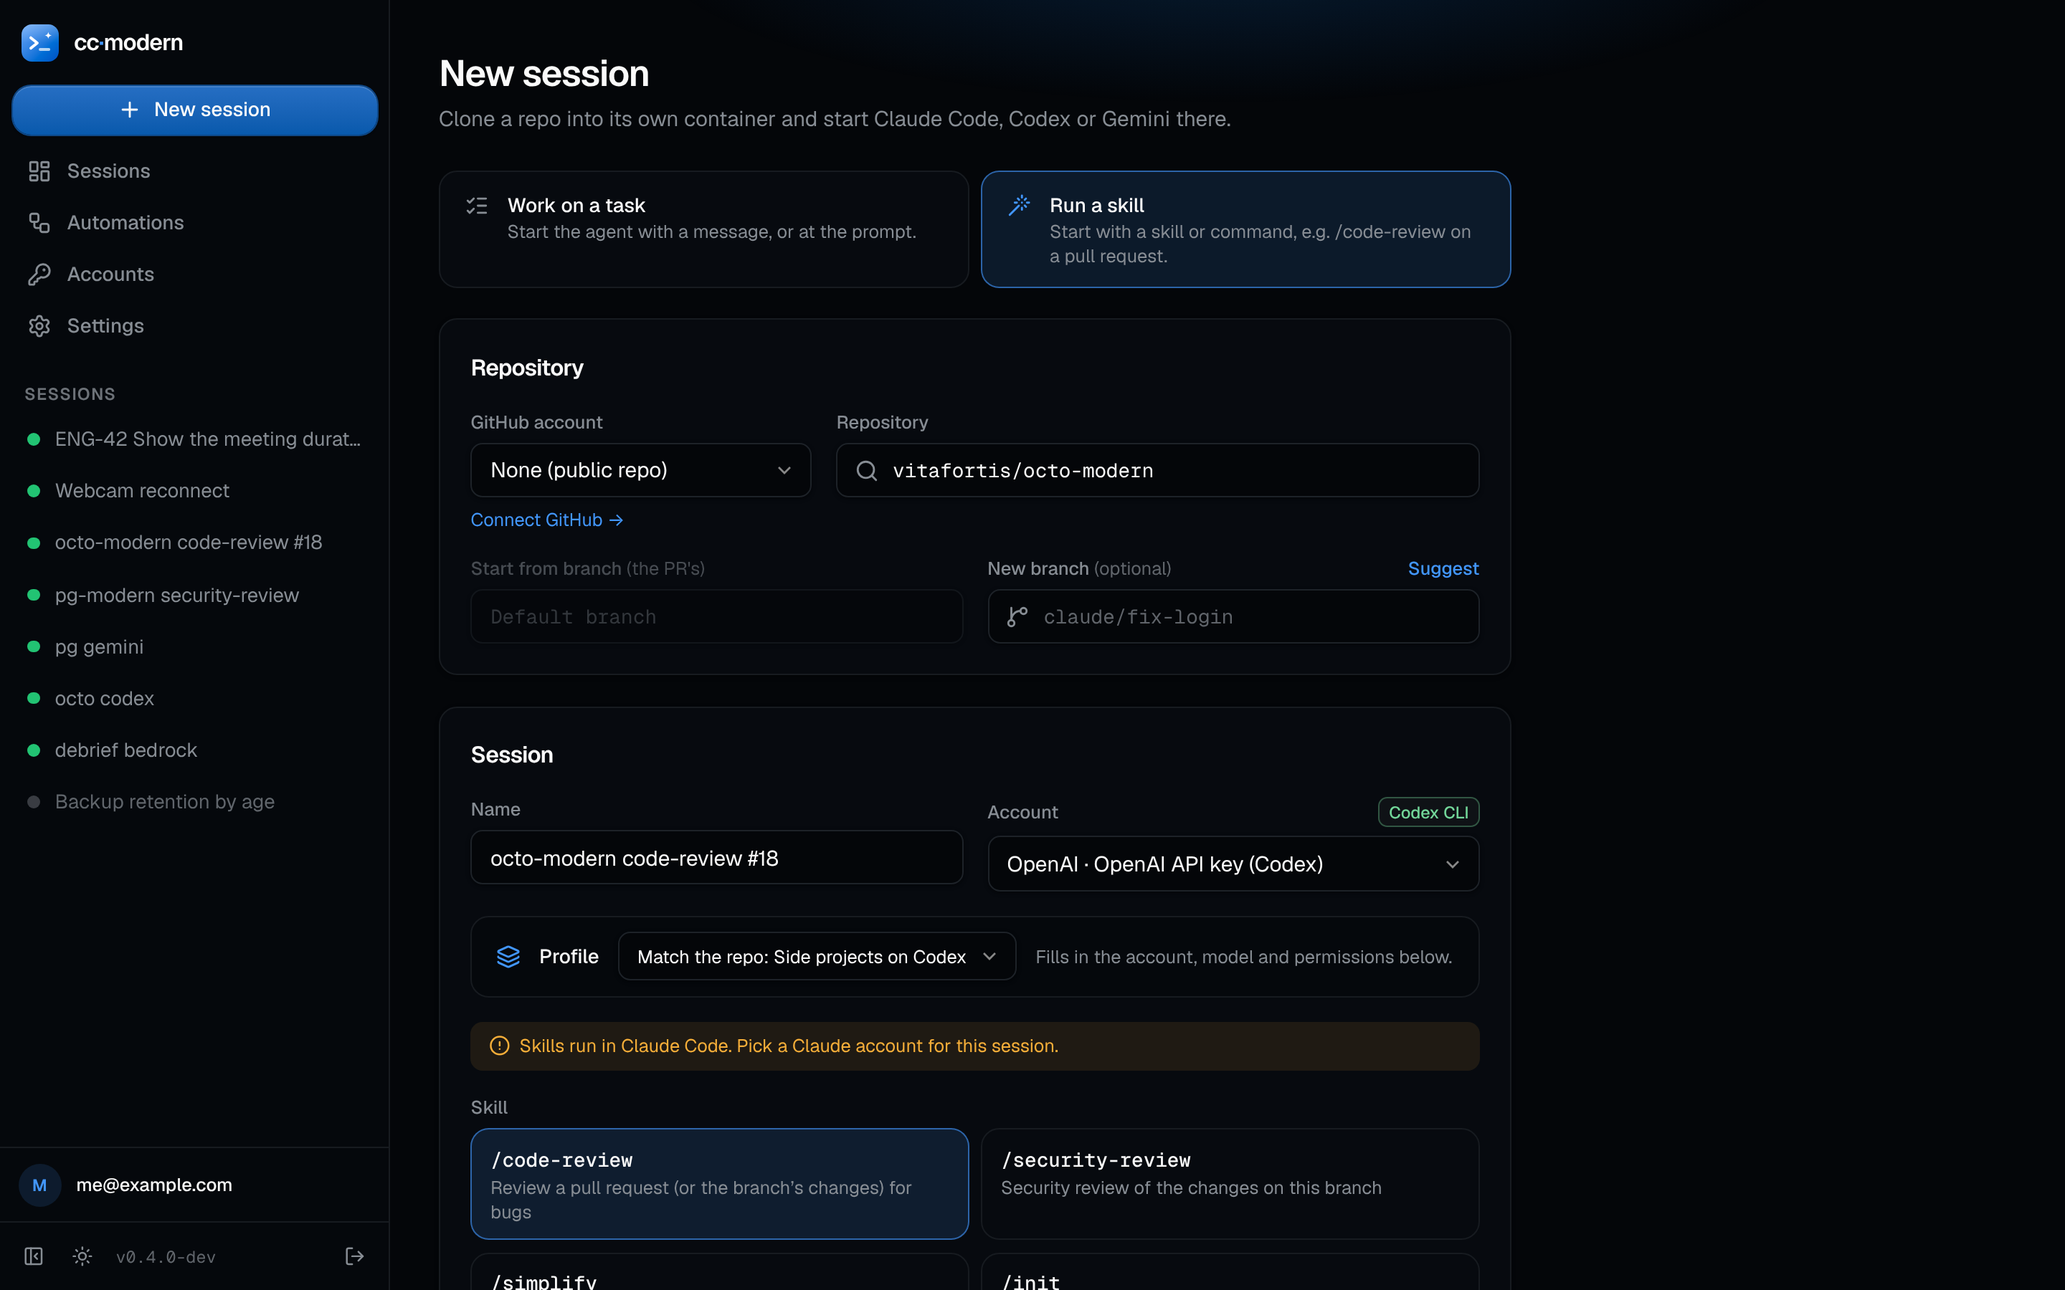
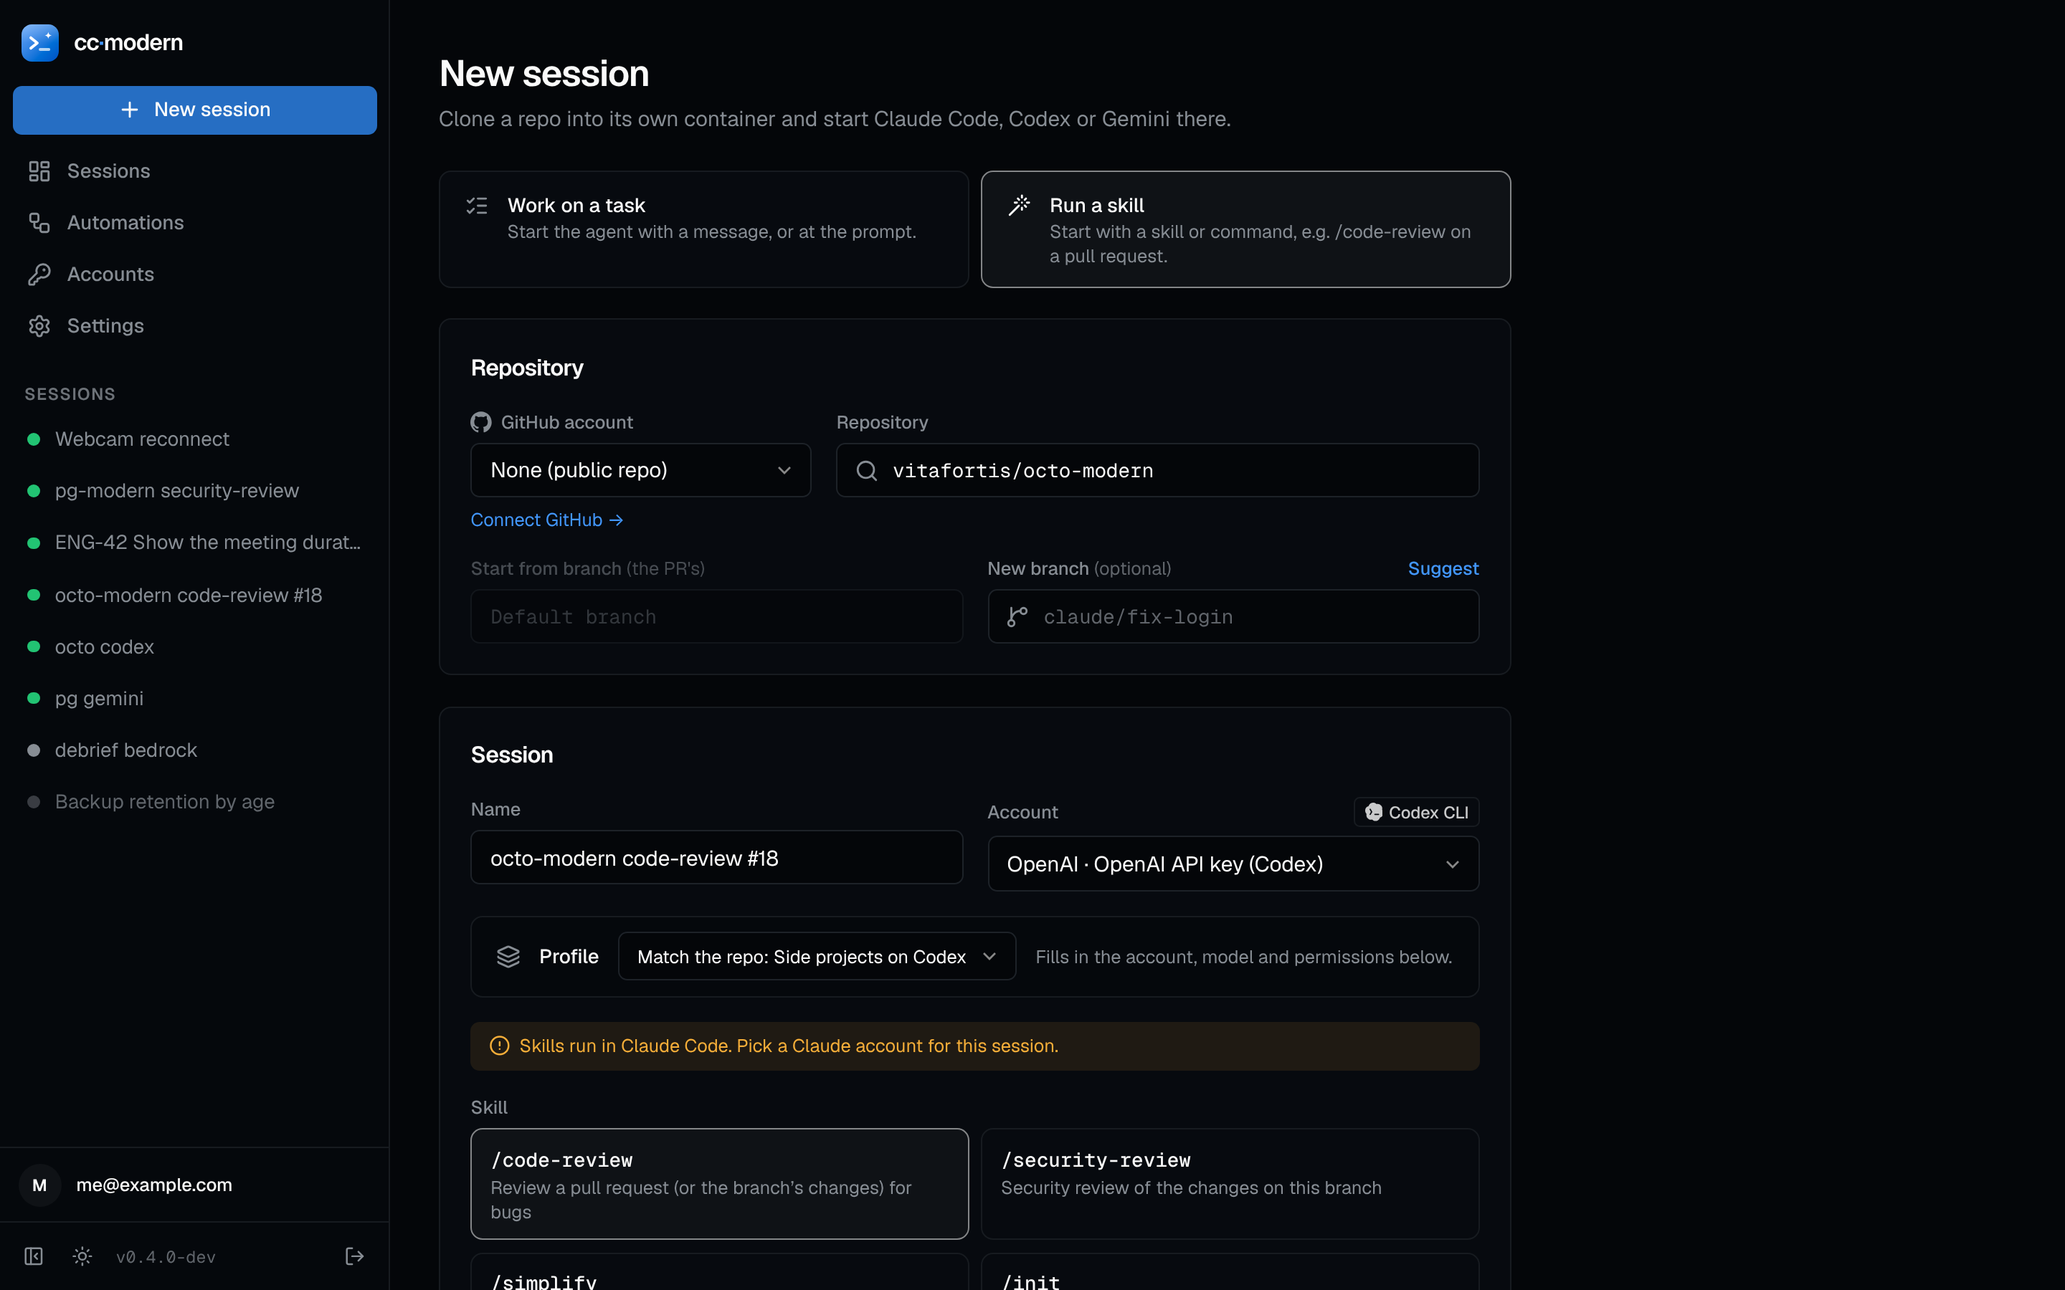
Flat style: solid and outlined buttons, tight corners, no glow
The look leaned on effects stacked on every surface: gradient buttons
with highlights, rings and shadows that shrank when pressed, 12-16px
corners, a blue glow behind every header, a dot grid on sign-in, shadows
on cards and blue for nearly everything. Now:

- Primary and danger buttons are solid, secondary buttons are outlined,
  ghost buttons stay plain; no press shrink.
- 6px controls, 8px cards, 10px dialogs.
- No header glow or dot grid; cards and fields have borders, not
  shadows. Dialogs, menus and toasts keep theirs.
- Badges are plain with coloured labels; selected options, the active
  nav item, avatars and section icons are neutral. Blue is left for the
  main action, links, focus and live state.

Same palette and tokens, so the other ·modern apps can take the same
change. Version 0.5.0.

Claude-Session: https://claude.ai/code/session_01C997C8JX2S46x9hvY6hSte

diff --git a/src/app.css b/src/app.css
@@ -41,7 +41,6 @@
 	--secondary-edge: oklch(85% 0.014 255);
 	--secondary-highlight: oklch(100% 0 0 / 0.8);
 	--ring: var(--primary);
-	--glow: oklch(65% 0.18 255 / 0.13);
 	--shadow: 0 1px 3px 0 oklch(0% 0 0 / 0.06), 0 1px 2px -1px oklch(0% 0 0 / 0.06);
 	--shadow-lg: 0 12px 32px -8px oklch(30% 0.05 255 / 0.18), 0 2px 6px oklch(0% 0 0 / 0.05);
 	--syntax-keyword: oklch(52% 0.18 255);
@@ -85,7 +84,6 @@
 	--success: oklch(72% 0.17 155);
 	--warning: oklch(80% 0.15 75);
 	--danger: oklch(68% 0.2 25);
-	--glow: oklch(60% 0.19 255 / 0.2);
 	--shadow: 0 1px 3px 0 oklch(0% 0 0 / 0.3), 0 1px 2px -1px oklch(0% 0 0 / 0.3);
 	--shadow-lg: 0 16px 40px -12px oklch(0% 0 0 / 0.6), 0 0 0 1px oklch(100% 0 0 / 0.02);
 	--syntax-keyword: oklch(75% 0.17 255);
@@ -124,9 +122,11 @@
 	--color-term: var(--term-bg);
 	--color-term-chrome: var(--term-chrome);
 	--color-term-edge: var(--term-edge);
-	--radius-lg: 0.5rem;
-	--radius-xl: 0.75rem;
-	--radius-2xl: 1rem;
+	/* Tight corners: 6px controls, 8px cards, 10px dialogs. */
+	--radius-md: 0.375rem;
+	--radius-lg: 0.375rem;
+	--radius-xl: 0.5rem;
+	--radius-2xl: 0.625rem;
 	--shadow-surface: var(--shadow);
 	--shadow-surface-lg: var(--shadow-lg);
 }
@@ -161,63 +161,40 @@
 
 @layer components {
 	/* Buttons follow Arcane's: rounded-xl, soft tinted shadows, press-to-shrink, 3px focus ring. */
+	/* Flat buttons: a solid primary, an outlined secondary, a plain ghost. Depth is kept for things
+	   that float (dialogs, menus, toasts). */
 	.btn {
-		@apply relative inline-flex h-9 shrink-0 items-center justify-center gap-2 overflow-hidden rounded-xl px-4 text-[0.8125rem] font-medium whitespace-nowrap outline-none transition-all duration-200 select-none active:scale-[0.97] focus-visible:ring-[3px] focus-visible:ring-ring/50 disabled:pointer-events-none disabled:opacity-50 has-[>svg]:px-3.5 [&_svg]:pointer-events-none [&_svg]:size-4 [&_svg]:shrink-0;
+		@apply relative inline-flex h-9 shrink-0 items-center justify-center gap-2 rounded-lg px-4 text-[0.8125rem] font-medium whitespace-nowrap outline-none transition-colors duration-150 select-none focus-visible:ring-2 focus-visible:ring-ring/50 disabled:pointer-events-none disabled:opacity-50 has-[>svg]:px-3.5 [&_svg]:pointer-events-none [&_svg]:size-4 [&_svg]:shrink-0;
 	}
 	.btn-primary {
-		background: linear-gradient(var(--primary-solid-top), var(--primary-solid-bottom));
+		background: var(--primary-solid-top);
 		color: var(--primary-foreground);
-		box-shadow:
-			inset 0 1px 0 oklch(100% 0 0 / 0.14),
-			0 0 0 1px var(--primary-solid-edge),
-			0 1px 2px oklch(0% 0 0 / 0.2);
 	}
 	.btn-primary:hover {
-		filter: brightness(1.08);
+		background: var(--primary-solid-bottom);
 	}
 	.btn-secondary {
-		@apply text-foreground hover:text-primary;
-		background: linear-gradient(var(--secondary-top), var(--secondary-bottom));
-		box-shadow:
-			inset 0 1px 0 var(--secondary-highlight),
-			0 0 0 1px var(--secondary-edge),
-			0 1px 2px oklch(0% 0 0 / 0.12);
-	}
-	.btn-secondary:hover {
-		box-shadow:
-			inset 0 1px 0 var(--secondary-highlight),
-			0 0 0 1px color-mix(in oklch, var(--primary) 45%, var(--secondary-edge)),
-			0 1px 2px oklch(0% 0 0 / 0.12);
+		@apply text-foreground hover:bg-muted;
+		box-shadow: inset 0 0 0 1px var(--input);
 	}
 	.btn-ghost {
-		@apply text-muted-foreground hover:bg-accent hover:text-foreground;
+		@apply text-muted-foreground hover:bg-muted hover:text-foreground;
 	}
 	.btn-danger {
-		background: linear-gradient(var(--danger-solid-top), var(--danger-solid-bottom));
+		background: var(--danger-solid-top);
 		color: oklch(98.5% 0 0);
-		box-shadow:
-			inset 0 1px 0 oklch(100% 0 0 / 0.14),
-			0 0 0 1px var(--danger-solid-edge),
-			0 1px 2px oklch(0% 0 0 / 0.2);
 	}
 	.btn-danger:hover {
-		filter: brightness(1.08);
+		background: var(--danger-solid-bottom);
 	}
 	/* Outlined danger: a secondary button with a red edge and label. */
 	.btn-danger-outline {
-		@apply text-danger;
-		background: linear-gradient(var(--secondary-top), var(--secondary-bottom));
-		box-shadow:
-			inset 0 1px 0 var(--secondary-highlight),
-			0 0 0 1px color-mix(in oklch, var(--danger) 55%, var(--secondary-edge)),
-			0 1px 2px oklch(0% 0 0 / 0.12);
-	}
-	.btn-danger-outline:hover {
-		@apply bg-danger/10;
+		@apply text-danger hover:bg-danger/10;
+		box-shadow: inset 0 0 0 1px color-mix(in oklch, var(--danger) 45%, var(--input));
 	}
 	/* Compact size for dense toolbars (grid, editor, tables). */
 	.btn-sm {
-		@apply h-7 gap-1.5 rounded-lg px-2.5 text-xs has-[>svg]:px-2 [&_svg]:size-3.5;
+		@apply h-7 gap-1.5 rounded-md px-2.5 text-xs has-[>svg]:px-2 [&_svg]:size-3.5;
 	}
 	.btn-icon {
 		@apply size-9 px-0 has-[>svg]:px-0;
@@ -226,7 +203,7 @@
 		@apply size-7 px-0 has-[>svg]:px-0;
 	}
 	.input {
-		@apply h-9 w-full rounded-lg border border-input bg-background px-3 text-sm text-foreground shadow-surface transition-colors outline-none placeholder:text-muted-foreground/70 focus:border-primary focus:ring-3 focus:ring-primary/20 disabled:opacity-60;
+		@apply h-9 w-full rounded-lg border border-input bg-background px-3 text-sm text-foreground transition-colors outline-none placeholder:text-muted-foreground/70 focus:border-primary focus:ring-2 focus:ring-primary/25 disabled:opacity-60;
 	}
 	select.input {
 		@apply appearance-none pr-8;
@@ -238,35 +215,26 @@
 		@apply mb-1.5 block text-xs font-medium text-muted-foreground;
 	}
 	.card {
-		@apply rounded-xl border border-border bg-card text-card-foreground shadow-surface;
+		@apply rounded-xl border border-border bg-card text-card-foreground;
 	}
 	.badge {
-		@apply inline-flex h-5 items-center gap-1 rounded-md border border-border bg-muted px-1.5 text-[0.6875rem] font-medium whitespace-nowrap text-muted-foreground [&_svg]:size-3;
+		@apply inline-flex h-5 items-center gap-1 rounded border border-border px-1.5 text-[0.6875rem] font-medium whitespace-nowrap text-muted-foreground [&_svg]:size-3;
 	}
+	/* Status shows in the label's colour; the badge itself stays plain. */
 	.badge-primary {
-		@apply border-primary/30 bg-primary-soft text-primary;
+		@apply text-primary;
 	}
 	.badge-success {
-		@apply border-success/30 bg-success/10 text-success;
+		@apply text-success;
 	}
 	.badge-warning {
-		@apply border-warning/30 bg-warning/10 text-warning;
+		@apply text-warning;
 	}
 	.badge-danger {
-		@apply border-danger/30 bg-danger/10 text-danger;
+		@apply text-danger;
 	}
 	.kbd {
 		@apply inline-flex h-5 min-w-5 items-center justify-center rounded border border-border bg-muted px-1 font-mono text-[0.625rem] text-muted-foreground;
-	}
-	.glow-top {
-		background-image: radial-gradient(50% 60% at 50% 0, var(--glow), transparent 70%);
-	}
-	.dot-grid {
-		background-image: radial-gradient(var(--border) 1px, transparent 1px);
-		background-size: 18px 18px;
-	}
-	.mask-fade {
-		mask-image: radial-gradient(80% 70% at 50% 0, #000 30%, transparent 75%);
 	}
 }
 

diff --git a/src/routes/new/+page.svelte b/src/routes/new/+page.svelte
@@ -194,10 +194,10 @@
 			{#each [{ value: 'task', icon: ListChecks, title: 'Work on a task', body: 'Start the agent with a message, or at the prompt.' }, { value: 'skill', icon: Wand, title: 'Run a skill', body: 'Start with a skill or command, e.g. /code-review on a pull request.' }] as m (m.value)}
 				<button
 					type="button"
-					class="flex items-start gap-3 rounded-xl border px-4 py-3 text-left transition-colors {mode === m.value ? 'border-primary/60 bg-primary-soft' : 'border-border bg-card hover:bg-accent/40'}"
+					class="flex items-start gap-3 rounded-xl border px-4 py-3 text-left transition-colors {mode === m.value ? 'border-foreground/50 bg-muted' : 'border-border bg-card hover:bg-accent/40'}"
 					onclick={() => (mode = m.value as 'task' | 'skill')}
 				>
-					<m.icon class="mt-0.5 size-4 shrink-0 {mode === m.value ? 'text-primary' : 'text-muted-foreground'}" />
+					<m.icon class="mt-0.5 size-4 shrink-0 {mode === m.value ? 'text-foreground' : 'text-muted-foreground'}" />
 					<span>
 						<span class="block text-[0.8125rem] font-medium">{m.title}</span>
 						<span class="block text-xs text-muted-foreground">{m.body}</span>
@@ -303,7 +303,7 @@
 			</div>
 			{#if data.profiles.length}
 				<div class="flex flex-wrap items-center gap-x-3 gap-y-1.5 rounded-xl border border-border bg-surface px-4 py-2.5 text-[0.8125rem]">
-					<Layers class="size-4 shrink-0 text-primary" />
+					<Layers class="size-4 shrink-0 text-muted-foreground" />
 					<label for="profile" class="font-medium">Profile</label>
 					<select id="profile" class="input h-8 w-auto min-w-48 text-xs" bind:value={profileChoice}>
 						<option value="auto">Match the repo{matched ? `: ${matched.name}` : ''}</option>
@@ -327,7 +327,7 @@
 						{#each skills as o (o.command)}
 							<button
 								type="button"
-								class="flex items-start gap-2.5 rounded-xl border px-3 py-2.5 text-left transition-colors {command === o.command ? 'border-primary/60 bg-primary-soft' : 'border-border hover:bg-accent/40'}"
+								class="flex items-start gap-2.5 rounded-xl border px-3 py-2.5 text-left transition-colors {command === o.command ? 'border-foreground/50 bg-muted' : 'border-border hover:bg-accent/40'}"
 								onclick={() => (command = o.command)}
 							>
 								<span class="min-w-0">
@@ -385,7 +385,7 @@
 				</div>
 			</div>
 			<div class="flex items-start gap-3 rounded-xl border border-border bg-surface px-4 py-3">
-				<Radio class="mt-0.5 size-4 shrink-0 text-primary" />
+				<Radio class="mt-0.5 size-4 shrink-0 text-muted-foreground" />
 				<div class="min-w-0 flex-1 text-[0.8125rem]">
 					<p class="font-medium">Remote Control</p>
 					<p class="text-xs text-muted-foreground">

diff --git a/src/routes/settings/sign-in/+page.svelte b/src/routes/settings/sign-in/+page.svelte
@@ -138,7 +138,7 @@
 		<section class="card divide-y divide-border">
 			<div class="flex items-center justify-between gap-4 p-5">
 				<span>
-					<span class="flex items-center gap-2 text-[0.9375rem] font-semibold tracking-tight"><ShieldCheck class="size-4 text-primary" />Require sign-in</span>
+					<span class="flex items-center gap-2 text-[0.9375rem] font-semibold tracking-tight"><ShieldCheck class="size-4 text-muted-foreground" />Require sign-in</span>
 					<span class="mt-0.5 block text-xs text-muted-foreground">Off: anyone who can reach cc·modern uses it as the admin. Only for a reverse proxy that already signs people in.</span>
 				</span>
 				<Switch bind:checked={form.required} label="Require sign-in" />
@@ -233,7 +233,7 @@
 		<section class="card space-y-4 p-5 {form.required ? '' : 'opacity-60'}">
 			<div class="flex items-center justify-between gap-4">
 				<span>
-					<span class="flex items-center gap-2 text-[0.9375rem] font-semibold tracking-tight"><Network class="size-4 text-primary" />Reverse proxy sign-in</span>
+					<span class="flex items-center gap-2 text-[0.9375rem] font-semibold tracking-tight"><Network class="size-4 text-muted-foreground" />Reverse proxy sign-in</span>
 					<span class="mt-0.5 block text-xs text-muted-foreground">Forward auth: your proxy (Authelia, Authentik, oauth2-proxy, Tailscale…) signs people in and passes who they are in headers.</span>
 				</span>
 				<Switch bind:checked={form.proxy.enabled} label="Reverse proxy sign-in" />
@@ -308,11 +308,11 @@
 		</div>
 
 		<section>
-			<h2 class="mb-3 flex items-center gap-2 text-[0.9375rem] font-semibold tracking-tight"><Users class="size-4 text-primary" />Users</h2>
+			<h2 class="mb-3 flex items-center gap-2 text-[0.9375rem] font-semibold tracking-tight"><Users class="size-4 text-muted-foreground" />Users</h2>
 			<div class="card divide-y divide-border">
 				{#each data.users as u (u.id)}
 					<div class="flex flex-wrap items-center gap-3 px-4 py-3">
-						<span class="grid size-8 shrink-0 place-items-center rounded-full bg-primary-soft text-xs font-semibold text-primary uppercase">{(u.name ?? u.email).slice(0, 1)}</span>
+						<span class="grid size-8 shrink-0 place-items-center rounded-full bg-muted text-xs font-semibold text-foreground uppercase">{(u.name ?? u.email).slice(0, 1)}</span>
 						<div class="min-w-0 flex-1 basis-52">
 							<p class="flex flex-wrap items-center gap-2 text-[0.8125rem] font-medium">
 								{u.name ?? u.email}{#if u.id === data.me}<span class="badge">You</span>{/if}<span class="badge">{SOURCE[u.source]}</span>

diff --git a/src/routes/+layout.svelte b/src/routes/+layout.svelte
@@ -113,7 +113,7 @@
 				href={item.href}
 				title={item.label}
 				class="relative flex h-8 items-center gap-2.5 rounded-lg px-2.5 text-[0.8125rem] font-medium transition-colors {active
-					? 'bg-accent text-foreground shadow-surface'
+					? 'bg-muted text-foreground'
 					: 'text-muted-foreground hover:bg-accent/70 hover:text-foreground'}"
 			>
 				{#if active}<span class="absolute top-1.5 bottom-1.5 left-0 w-0.5 rounded-full bg-primary"></span>{/if}
@@ -160,7 +160,7 @@
 
 	{#if data.viewer && data.auth === 'authenticated' && !compact}
 		<a href="/settings#account" title="My account" class="flex items-center gap-2.5 border-t border-border px-3 py-2.5 transition-colors hover:bg-accent/60">
-			<span class="grid size-7 shrink-0 place-items-center rounded-full bg-primary-soft text-[0.6875rem] font-semibold text-primary uppercase">
+			<span class="grid size-7 shrink-0 place-items-center rounded-full bg-muted text-[0.6875rem] font-semibold text-foreground uppercase">
 				{(data.viewer.name ?? data.viewer.email).slice(0, 1)}
 			</span>
 			<div class="min-w-0 flex-1">

diff --git a/src/routes/+page.svelte b/src/routes/+page.svelte
@@ -52,8 +52,8 @@
 				<ol class="mt-5 space-y-2">
 					{#each steps as step, i (step.label)}
 						<li>
-							<a href={step.href} class="flex items-center gap-3 rounded-xl border border-border px-4 py-3 transition-colors hover:border-primary/40 hover:bg-accent/40">
-								<span class="grid size-7 shrink-0 place-items-center rounded-full text-xs font-semibold {step.done ? 'bg-success/15 text-success' : 'bg-primary-soft text-primary'}">
+							<a href={step.href} class="flex items-center gap-3 rounded-xl border border-border px-4 py-3 transition-colors hover:border-input hover:bg-accent/40">
+								<span class="grid size-7 shrink-0 place-items-center rounded-full text-xs font-semibold {step.done ? 'bg-success/15 text-success' : 'bg-muted text-foreground'}">
 									{#if step.done}<Check class="size-3.5" />{:else}{i + 1}{/if}
 								</span>
 								<span class="min-w-0 flex-1">

diff --git a/src/routes/s/[id]/+page.svelte b/src/routes/s/[id]/+page.svelte
@@ -401,7 +401,7 @@
 			{#each skills as o (o.command)}
 				<button
 					type="button"
-					class="flex items-start gap-2.5 rounded-lg border px-3 py-2 text-left {skillCommand === o.command ? 'border-primary/60 bg-primary-soft' : 'border-border hover:bg-accent/40'}"
+					class="flex items-start gap-2.5 rounded-lg border px-3 py-2 text-left {skillCommand === o.command ? 'border-foreground/50 bg-muted' : 'border-border hover:bg-accent/40'}"
 					onclick={() => (skillCommand = o.command)}
 				>
 					<span class="font-mono text-[0.8125rem] font-medium">{o.command}</span>

diff --git a/src/routes/accounts/+page.svelte b/src/routes/accounts/+page.svelte
@@ -428,8 +428,8 @@
 
 	<div class="max-w-4xl space-y-8 px-4 pb-12 sm:px-8">
 		{#if welcome}
-			<div class="card flex items-start gap-3 border-primary/30 p-4 text-[0.8125rem]">
-				<ShieldCheck class="mt-0.5 size-4 shrink-0 text-primary" />
+			<div class="card flex items-start gap-3 p-4 text-[0.8125rem]">
+				<ShieldCheck class="mt-0.5 size-4 shrink-0 text-success" />
 				<p>You're set up. Connect a model account below (and GitHub for private repos), then <a class="text-primary hover:underline" href="/new">start a session</a>.</p>
 			</div>
 		{/if}

diff --git a/src/lib/components/AuthCard.svelte b/src/lib/components/AuthCard.svelte
@@ -52,10 +52,8 @@
 </script>
 
 <div class="relative grid min-h-dvh place-items-center overflow-hidden px-4">
-	<div class="dot-grid mask-fade pointer-events-none absolute inset-0 opacity-70"></div>
-	<div class="glow-top pointer-events-none absolute inset-x-0 top-0 h-[480px]"></div>
 
-	<div class="card relative w-full max-w-sm p-7 shadow-surface-lg">
+	<div class="card relative w-full max-w-sm p-7">
 		<div class="mb-6 flex flex-col items-center text-center">
 			<Logo size={44} />
 			<h1 class="mt-4 text-lg font-semibold tracking-tight">{title}</h1>

diff --git a/src/lib/components/SessionCard.svelte b/src/lib/components/SessionCard.svelte
@@ -39,7 +39,7 @@
 	}
 </script>
 
-<article class="card flex min-w-0 flex-col overflow-hidden transition-shadow hover:shadow-surface-lg {view === 'waiting' ? 'ring-1 ring-warning/40' : ''}">
+<article class="card flex min-w-0 flex-col overflow-hidden transition-colors hover:border-input {view === 'waiting' ? 'ring-1 ring-warning/40' : ''}">
 	<header class="flex items-start gap-3 px-4 pt-4">
 		<StateDot state={view} class="mt-1.5" />
 		<div class="min-w-0 flex-1">

diff --git a/src/lib/components/PageHeader.svelte b/src/lib/components/PageHeader.svelte
@@ -4,7 +4,6 @@
 </script>
 
 <div class="relative">
-	<div class="glow-top pointer-events-none absolute inset-x-0 -top-10 h-64"></div>
 	<header class="relative flex flex-wrap items-end justify-between gap-4 px-4 pt-6 pb-5 sm:px-8 sm:pt-8 sm:pb-6">
 		<div>
 			<h1 class="text-2xl font-semibold tracking-tight">{title}</h1>
